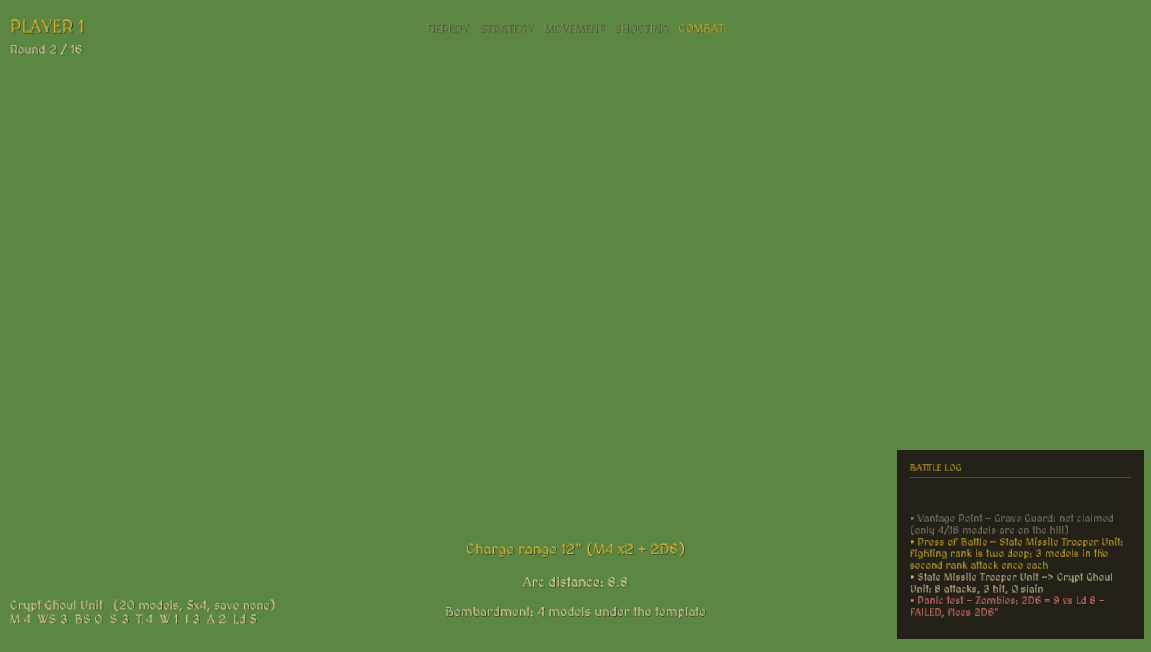
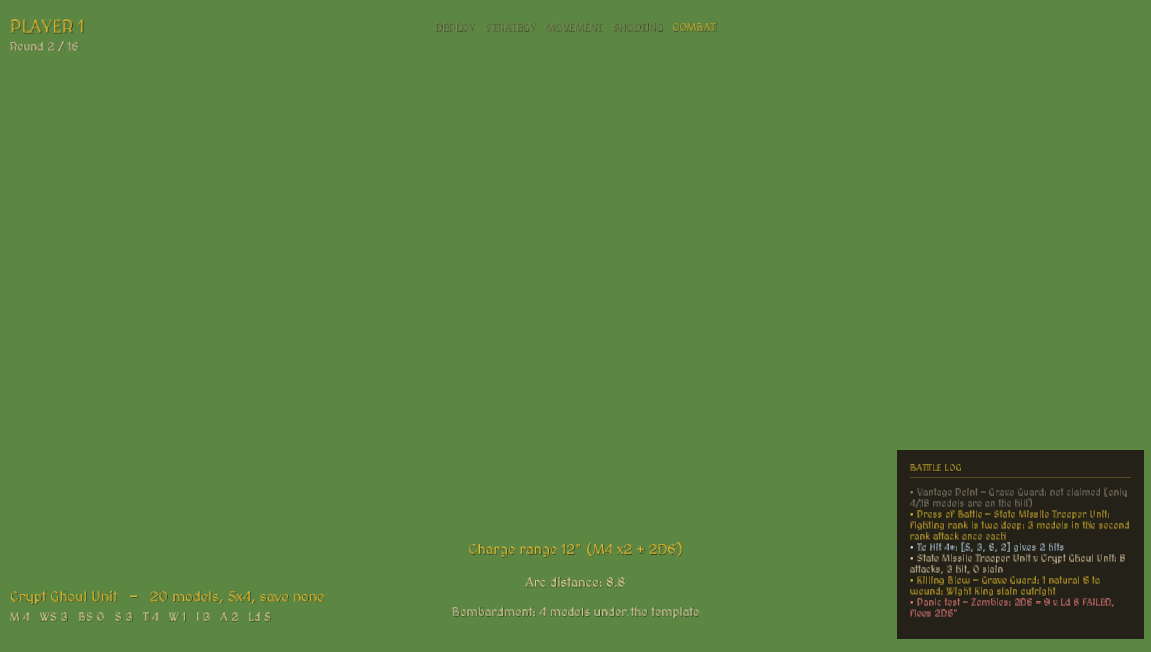
Try a second font, revert it, and fix an invisible glyph
Panda3D's bundled cmss12/cmtt12 are not a usable body face: they are OT1-encoded Computer Modern, so '+' renders as a minus and '>' as an inverted question mark. In a UI where '4+' is the most common string on screen that is disqualifying, and being StaticTextFont they blur when scaled. Reverted to the single face; GUI_PLAN records the finding and what is needed to unblock it (an OFL sans TTF in fonts/).

Kept from the attempt: MedievalSharp has no U+2192 either, so the arrow in the combat log line was rendering as nothing at all. Replaced with 'v'.

Also: setup_text_node takes a font, the selected-unit readout is split into a gold name line and a separate stat line, and the log and phase track sizes are tuned.

diff --git a/game.py b/game.py
@@ -181,22 +181,27 @@ class MyApp(ShowBase):
         # Anchored to screen corners so they cannot drift into the HUD's zones
         # (top-left banner, top-centre phase track, bottom-right battle log).
         self.debugTextUnit = self.setup_text_node(
-            pos=(0.03, 0.13), scale=0.038, color=gui_theme.HINT_FG,
+            pos=(0.03, 0.155), scale=0.044, color=gui_theme.GOLD,
+            parent=self.a2dBottomLeft, align=TextNode.ALeft)
+        self.unitStatsText = self.setup_text_node(
+            pos=(0.03, 0.095), scale=0.036, color=gui_theme.HINT_FG,
             parent=self.a2dBottomLeft, align=TextNode.ALeft)
 
+        # These three are written from a dozen call sites with arbitrary text,
+        # so they keep the display face, which has the full glyph set.
         self.debugTextInfo = self.setup_text_node(
-            pos=(0, 0.20), scale=0.042, color=gui_theme.HINT_FG,
+            pos=(0, 0.20), scale=0.040, color=gui_theme.HINT_FG,
             parent=self.a2dBottomCenter)
         self.moveArceDistance = 0
 
         self.diceInfoText = self.setup_text_node(
-            pos=(0, 0.30), scale=0.045, color=gui_theme.GOLD,
+            pos=(0, 0.30), scale=0.044, color=gui_theme.GOLD,
             parent=self.a2dBottomCenter)
 
         # One-off status messages (war-machine summaries and the like); the
         # phase name it used to echo is now the HUD's phase track.
         self.debugText = self.setup_text_node(
-            pos=(0, 0.11), scale=0.040, color=gui_theme.CREAM,
+            pos=(0, 0.11), scale=0.038, color=gui_theme.CREAM,
             parent=self.a2dBottomCenter)
 
         self.numsPoints=0
@@ -1450,13 +1455,13 @@ class MyApp(ShowBase):
     def showSelectedUnit(self, unit):
         """Bottom-left readout for the selected unit."""
         ch = unit.unit.model.characteristics
-        stats = "  ".join(f"{k} {ch.get(k, '-')}"
-                          for k in self.SELECTION_STATS)
         save = getattr(unit.unit.model, 'armor_save', 7)
         save = f"{save}+" if save <= 6 else "none"
         self.debugTextUnit.setText(
-            f"{unit.unit.name}   ({unit.unit.nmodels} models, "
-            f"{unit.unit.files}x{unit.unit.ranks}, save {save})\n{stats}")
+            f"{unit.unit.name}   —   {unit.unit.nmodels} models, "
+            f"{unit.unit.files}x{unit.unit.ranks}, save {save}")
+        stats = "   ".join(f"{k} {ch.get(k, '-')}" for k in self.SELECTION_STATS)
+        self.unitStatsText.setText(stats)
 
     async def resolveSpell(self, target):
         """Cast the chosen spell at *target* — a unit, or a ground point for a
@@ -1628,7 +1633,7 @@ class MyApp(ShowBase):
 
     
     def setup_text_node(self, text="", pos=(0, 0.9), scale=0.07, color=(1, 1, 1, 1),
-                        parent=None, align=TextNode.ACenter):
+                        parent=None, align=TextNode.ACenter, font=None):
         """
         Creates and returns a text node for displaying text on screen.
         Uses the shared medieval theme font and shadow.
@@ -1640,13 +1645,14 @@ class MyApp(ShowBase):
             color: Text color as (r, g, b, a) tuple
             parent: Anchor node (e.g. base.a2dBottomLeft); aspect2d if None
             align: TextNode alignment
+            font: Typeface; the display face if None
 
         Returns:
             TextNode object that can be updated with .setText()
         """
         return gui_theme.styled_text(
             text=text, pos=pos, scale=scale, fg=color,
-            align=align, parent=parent,
+            align=align, parent=parent, font=font,
         )
 
     # ─── Campaign Map ─────────────────────────────────────────────────────

diff --git a/gui_theme.py b/gui_theme.py
@@ -34,7 +34,11 @@ BTN_NEUTRAL_HOVER = (0.52, 0.42, 0.28, 1.0)
 ENTRY_BG        = (0.18, 0.15, 0.10, 0.9)
 ENTRY_FG        = CREAM
 
-# ── Font path ─────────────────────────────────────────────────────────────
+# ── Fonts ─────────────────────────────────────────────────────────────────
+# One face for everything, for want of a second one. Panda3D's bundled
+# cmss12/cmtt12 are OT1-encoded Computer Modern: '+' renders as a minus and
+# '>' as an inverted question mark, which is fatal in a UI full of "4+" saves.
+# A body sans has to be added as a TTF asset before the split is worth making.
 FONT_PATH = 'fonts/MedievalSharp.ttf'
 
 # ── Texture paths ─────────────────────────────────────────────────────────
@@ -47,22 +51,26 @@ TEX_BUTTON_HOVER = TEX_DIR + 'button_hover.png'
 TEX_BUTTON_RED  = TEX_DIR + 'button_red.png'
 TEX_VICTORY     = TEX_DIR + 'victory_panel.png'
 
-# ── Cached font reference (call load_medieval_font once after ShowBase) ──
+# ── Cached font reference (loaded lazily, after ShowBase exists) ─────────
 _med_font = None
+
+
+def _smooth(font, pixels_per_unit=128):
+    """Mipmapped, anisotropic filtering so text stays crisp when scaled."""
+    from panda3d.core import SamplerState
+    font.setPixelsPerUnit(pixels_per_unit)
+    font.setMinfilter(SamplerState.FT_linear_mipmap_linear)
+    font.setMagfilter(SamplerState.FT_linear)
+    font.setAnisotropicDegree(4)
+    return font
 
 
 def load_medieval_font():
     """Load and cache the MedievalSharp font.  Call once *after* ShowBase init."""
     global _med_font
-    from panda3d.core import Filename, SamplerState
-    from direct.showbase.Loader import Loader
     _med_font = loader.loadFont(FONT_PATH)   # noqa: F821 (panda3d global)
-    _med_font.setPixelsPerUnit(256)
     _med_font.setPageSize(1024, 1024)
-    _med_font.setMinfilter(SamplerState.FT_linear_mipmap_linear)
-    _med_font.setMagfilter(SamplerState.FT_linear)
-    _med_font.setAnisotropicDegree(4)
-    return _med_font
+    return _smooth(_med_font, 256)
 
 
 def get_font():

diff --git a/hud.py b/hud.py
@@ -65,7 +65,7 @@ class HUD(DirectObject):
               'CampaignPhase': 'CAMPAIGN'}
 
     LOG_ENTRIES = 9
-    LOG_SCALE = 0.032
+    LOG_SCALE = 0.030
     LOG_LEFT = -0.74
     LOG_TOP = 0.495
     LOG_BOTTOM = 0.075
@@ -86,12 +86,12 @@ class HUD(DirectObject):
             text='', pos=(0.03, -0.10), scale=0.055, fg=T.GOLD,
             align=TextNode.ALeft, parent=base.a2dTopLeft, font=font)
         self._round = T.styled_text(
-            text='', pos=(0.03, -0.165), scale=0.038, fg=T.CREAM,
+            text='', pos=(0.03, -0.155), scale=0.036, fg=T.CREAM,
             align=TextNode.ALeft, parent=base.a2dTopLeft, font=font)
 
         # ── Phase track (top centre) ──────────────────────────────────
         self._phase = T.styled_text(
-            text='', pos=(0, -0.10), scale=0.036, fg=T.CREAM,
+            text='', pos=(0, -0.095), scale=0.034, fg=T.CREAM,
             align=TextNode.ACenter, parent=base.a2dTopCenter, font=font)
 
         # ── Battle log (bottom right) ─────────────────────────────────

diff --git a/combat_resolution.py b/combat_resolution.py
@@ -865,7 +865,7 @@ class CombatResolver:
               f"-> {saves_made} saved -> {total_wounds} slain "
               f"({defenderUnit.unit.name})")
         messenger.send('hud-log', [
-            f"{attackerUnit.unit.name} \u2192 {defenderUnit.unit.name}: "
+            f"{attackerUnit.unit.name} v {defenderUnit.unit.name}: "
             f"{attacks} {verb}, {total_hits} hit, {total_wounds} slain",
             'good' if total_wounds else 'combat'])
 

diff --git a/docs/GUI_PLAN.md b/docs/GUI_PLAN.md
@@ -73,7 +73,6 @@ middle of the table.
 
 | Item | Effort | Payoff |
 |---|---|---|
-| Second font — sans for numbers and body | Low | High |
 | Unit card: proper panel, models bar with the 50%/25% thresholds, state chips | Low–Med | High |
 | In-world: selection decal, facing chevron, status badges, strength bar | Low–Med | High |
 | `legal_actions(unit)` + contextual action bar with disabled reasons | Med | High |
@@ -81,6 +80,7 @@ middle of the table.
 | Target preview: to-hit, to-wound, save, modifier stack, expected casualties | Med | Very high |
 | Combat result card | Low | Medium |
 | Log scrollback and category filtering | Low | Medium |
+| Second font — **blocked**, see below | Low | High |
 
 The two genuinely hard ones:
 
@@ -97,6 +97,21 @@ The two genuinely hard ones:
 - **Two fonts.** MedievalSharp for headings and unit names only; a clean
   humanist sans for stat lines, numbers and the log. Display faces at 0.03
   scale are illegible, and a stat block is tabular data.
+
+  **This is blocked on an asset, not on effort.** `fonts/` holds only
+  MedievalSharp, and Panda3D's bundled `cmss12` / `cmtt12` are not a
+  substitute: they are OT1-encoded Computer Modern, so `+` renders as a minus
+  sign and `>` as an inverted question mark. In a wargame UI where `4+` is the
+  most common string on screen, that is disqualifying. They are also
+  StaticTextFont, pre-rendered and unfilterable, so they blur when scaled.
+
+  To unblock: drop an OFL sans TTF (Inter, Lato, Open Sans) into `fonts/`, add
+  `BODY_FONT_PATH` beside `FONT_PATH` in `gui_theme`, and a `get_body_font()`
+  next to `get_font()`. Everything else is already parameterised —
+  `styled_text` and `setup_text_node` both take a `font`.
+
+- **Mind the glyph set.** MedievalSharp has no `→` (U+2192); an arrow in a log
+  line renders as nothing at all, silently. Stick to `->`, `v` and `-`.
 - **A type scale, not arbitrary values.** 0.075 title, 0.05 heading, 0.038
   body, 0.03 caption.
 - **Semantic colour.** Gold means important, red means bad for you, green means
@@ -110,8 +125,10 @@ The two genuinely hard ones:
 
 ## LEFTOVER
 
-- No second font yet — MedievalSharp is still setting the stat lines, and it
-  is the weakest part of the current screen.
+- No second font — attempted with Panda3D's bundled faces and reverted; see
+  the reason under Look and feel. Needs a sans TTF added to `fonts/`.
+  MedievalSharp is still setting the stat lines, and it remains the weakest
+  part of the screen.
 - Battle log has no scrollback; it is a fixed 9-entry window with no filter.
 - Nothing posts to the log from `psychology.py`, `spell_system.py`,
   `cannon_fire.py` or `bombardment.py` yet. They only need a
